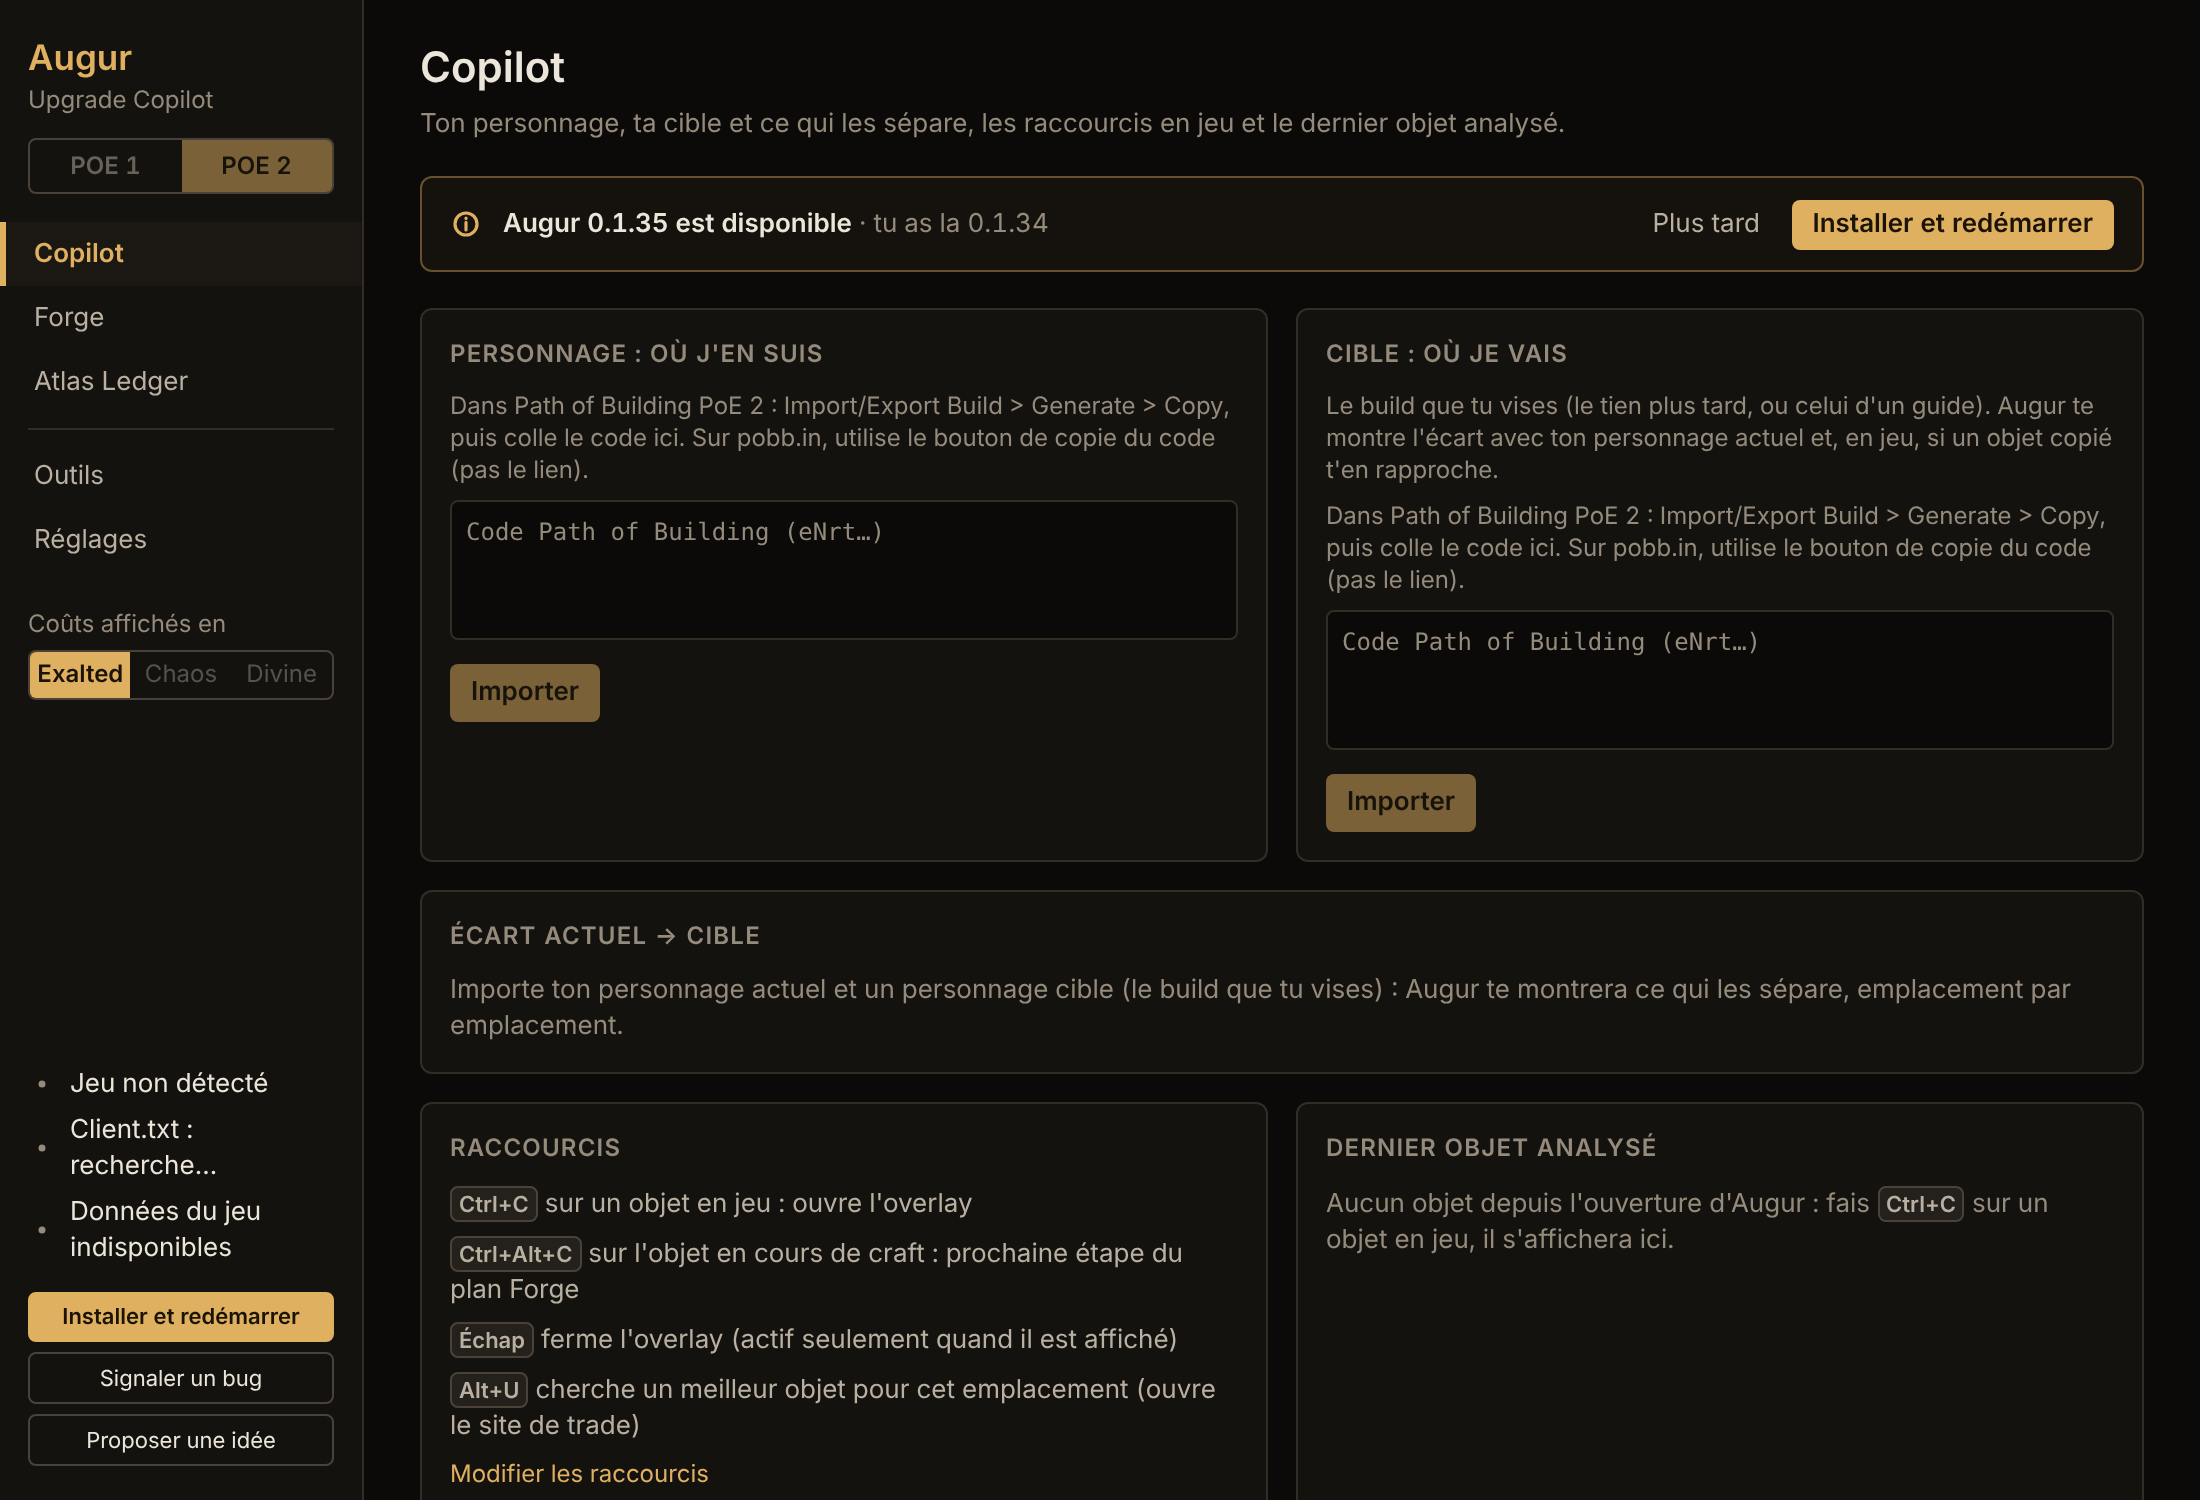
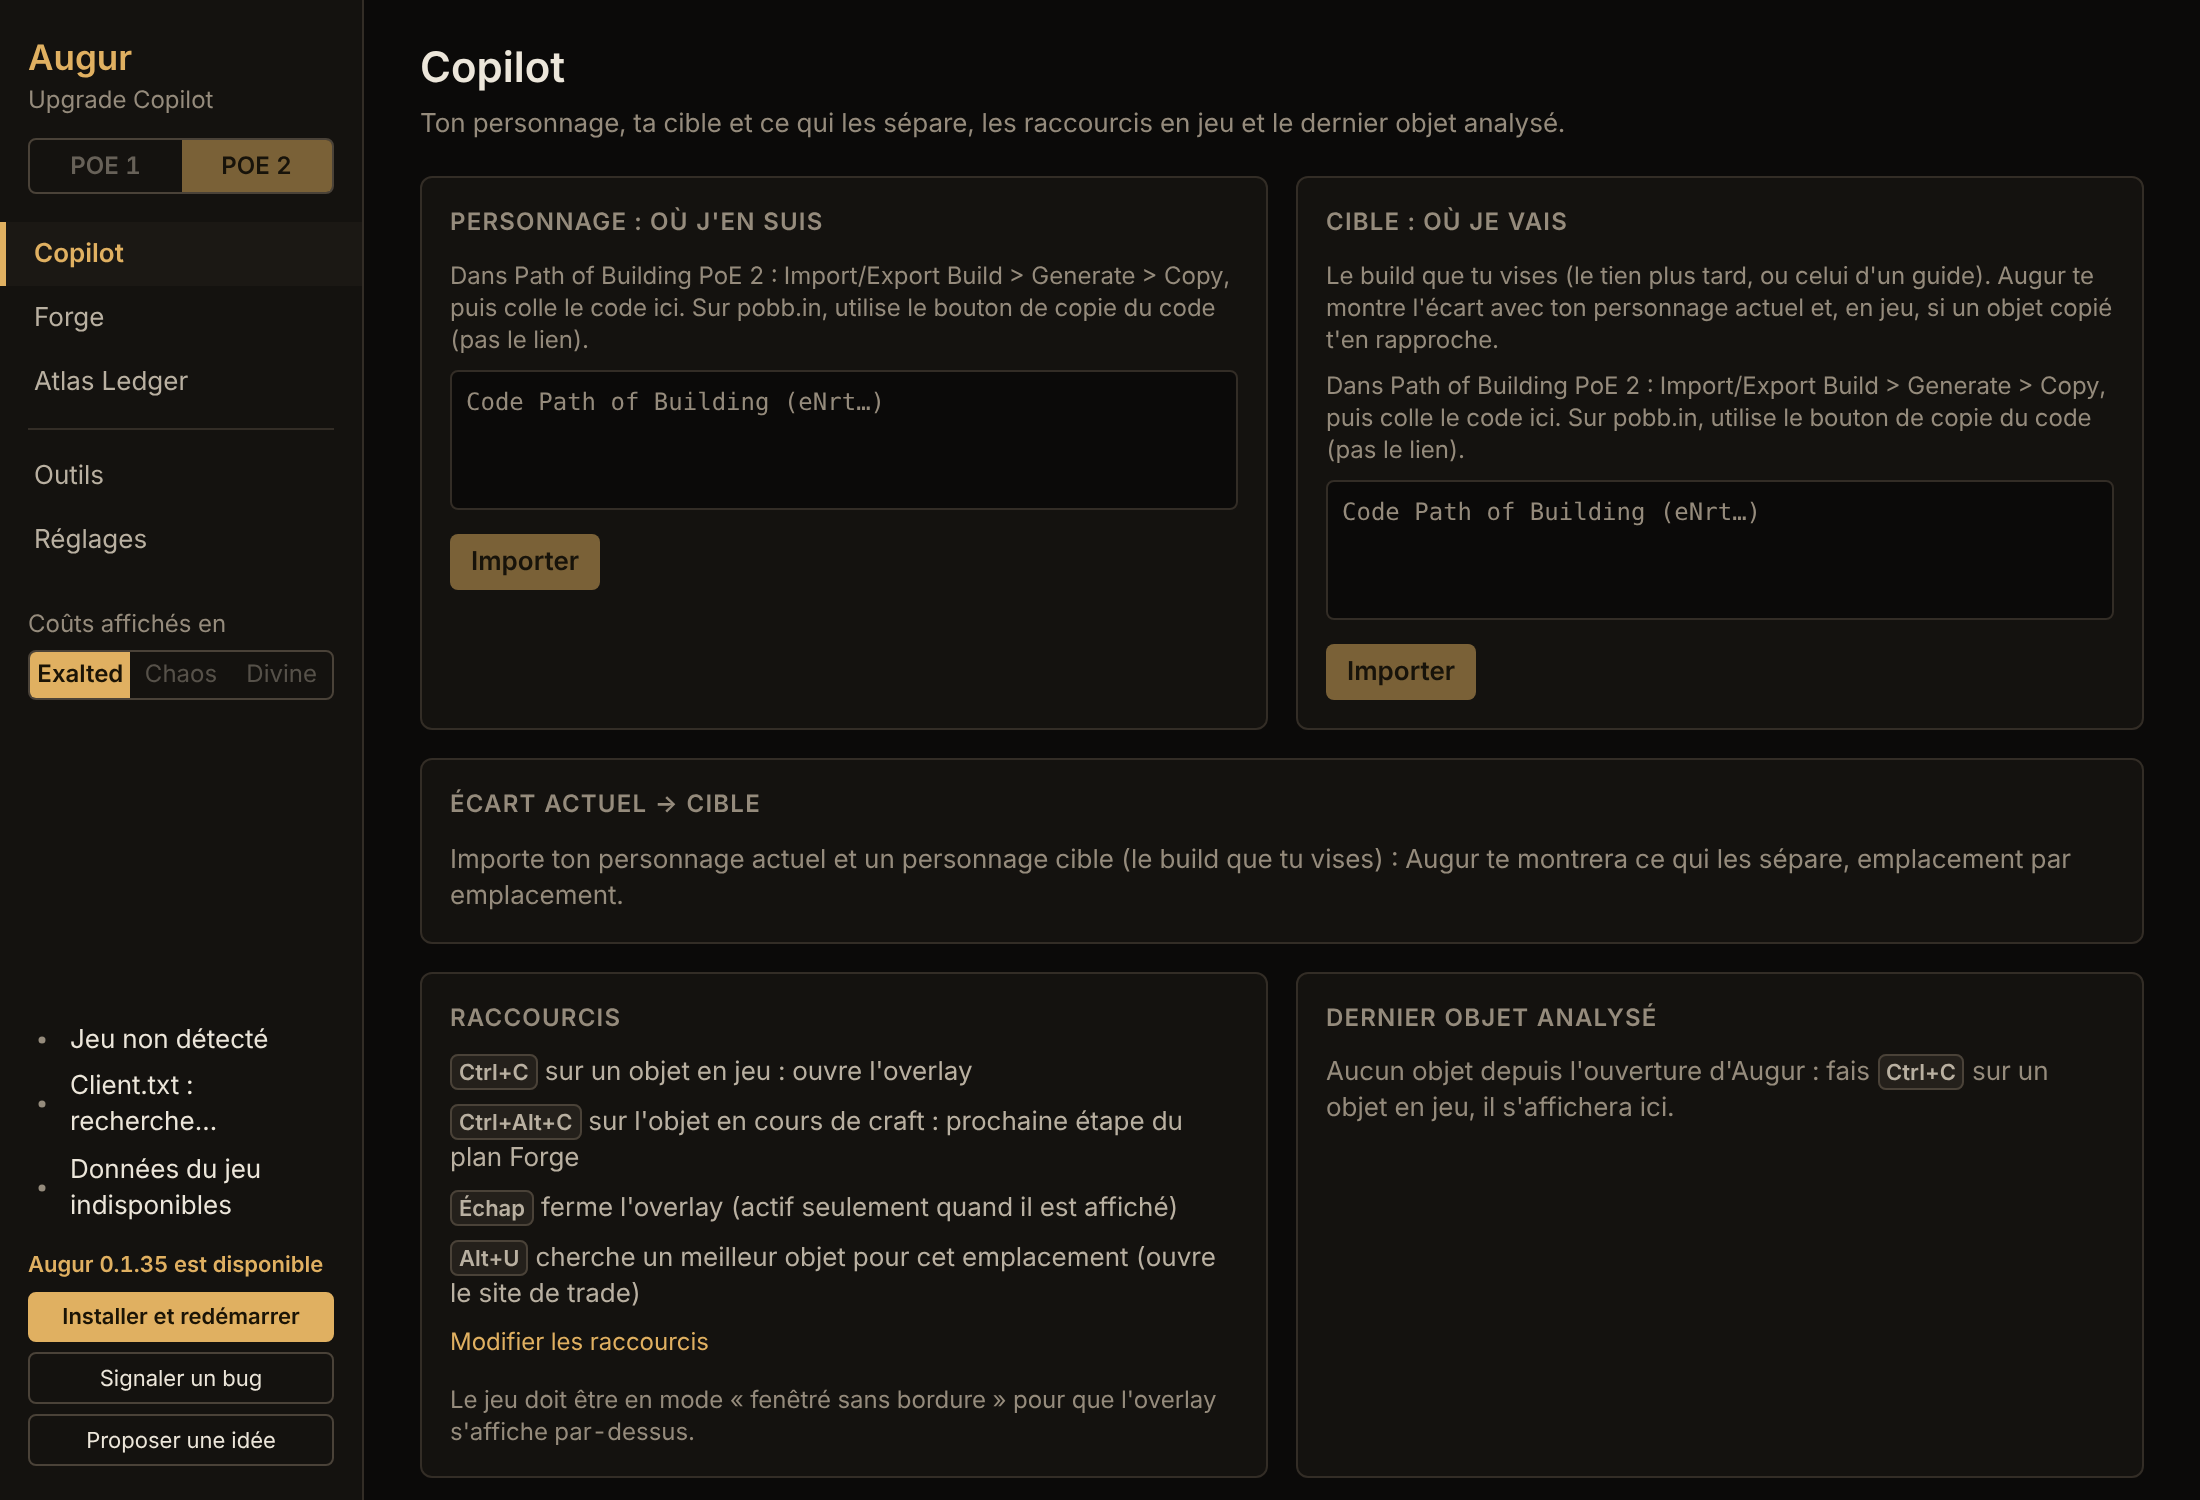
Mise à jour : bannière du haut retirée, « Augur X est disponible » en bas à gauche
Claude-Session: https://claude.ai/code/session_01C8Hq8xb3UNaZreS9wZEnLN

diff --git a/packages/ui/src/components/UpdateButton.tsx b/packages/ui/src/components/UpdateButton.tsx
@@ -1,5 +1,6 @@
 import type { UpdatePhase } from "../types";
 import { cx } from "../lib/cx";
+import { Icon } from "./Icon";
 
 export interface UpdateButtonProps {
   update: UpdatePhase;
@@ -55,4 +56,47 @@ export function UpdateButton({
       {label}
     </button>
   );
+}
+
+/**
+ * Ligne d'état au-dessus du bouton : version disponible, progression de
+ * l'installation ou erreur. Rien quand il n'y a rien à dire.
+ */
+export function UpdateStatus({ update, className }: { update: UpdatePhase; className?: string }) {
+  if (update.phase === "available") {
+    return (
+      <p role="status" className={cx("text-[11px] font-semibold text-accent", className)}>
+        Augur {update.info.version} est disponible
+      </p>
+    );
+  }
+  if (update.phase === "installing") {
+    const p = update.progress;
+    const pct = p?.total ? Math.min(100, Math.round((p.downloaded / p.total) * 100)) : undefined;
+    return (
+      <div role="status" className={cx("space-y-1", className)}>
+        <p className="text-[11px] text-text-primary">Installation d'Augur {update.info.version}…</p>
+        <div
+          className="h-1 overflow-hidden rounded-full bg-ink-700"
+          role="progressbar"
+          aria-valuemin={0}
+          aria-valuemax={100}
+          aria-valuenow={pct}
+        >
+          <div
+            className={cx("h-full bg-accent transition-[width]", pct === undefined && "w-1/3 motion-safe:animate-pulse")}
+            style={pct !== undefined ? { width: `${pct}%` } : undefined}
+          />
+        </div>
+      </div>
+    );
+  }
+  if (update.phase === "error") {
+    return (
+      <p role="status" className={cx("flex items-start gap-1 text-[11px] text-signal-warn", className)}>
+        <Icon name="alert" size={12} className="mt-0.5 shrink-0" /> {update.message}
+      </p>
+    );
+  }
+  return null;
 }

diff --git a/apps/desktop/src/index/main.tsx b/apps/desktop/src/index/main.tsx
@@ -5,8 +5,8 @@ import {
   ItemTooltip,
   Kbd,
   StatePanel,
-  UpdateBanner,
   UpdateButton,
+  UpdateStatus,
   type OverlayState,
   type ParsedItem,
 } from "@augur/ui";
@@ -301,12 +301,15 @@ function App() {
             <Status ok={Boolean(state?.gameFocused)} label={state?.gameFocused ? "Jeu au premier plan" : "Jeu non détecté"} />
             <Status ok={logSummary.ok} label={logSummary.label} />
             <Status ok={Boolean(versionDonnees)} label={versionDonnees ? `Données du jeu : ${versionDonnees}` : "Données du jeu indisponibles"} />
-            <UpdateButton
-              update={updates.update}
-              onCheck={() => void updates.check()}
-              onInstall={() => void updates.install()}
-              className="mt-2 w-full whitespace-nowrap px-1 py-1 text-[11px]"
-            />
+            <div className="space-y-1.5 pt-2">
+              <UpdateStatus update={updates.update} />
+              <UpdateButton
+                update={updates.update}
+                onCheck={() => void updates.check()}
+                onInstall={() => void updates.install()}
+                className="w-full whitespace-nowrap px-1 py-1 text-[11px]"
+              />
+            </div>
             <button
               type="button"
               onClick={() => allerA("signaler-bug")}
@@ -333,8 +336,6 @@ function App() {
                 : courante.desc}
             </p>
           </header>
-
-          <UpdateBanner update={updates.visible} onInstall={() => void updates.install()} onLater={updates.later} />
 
           {/* Les pages restent montées : changer de page ne perd ni un plan Forge ni une session Ledger. */}
 

diff --git a/packages/ui/src/components/UpdateButton.test.tsx b/packages/ui/src/components/UpdateButton.test.tsx
@@ -1,7 +1,7 @@
 import { cleanup, fireEvent, render, screen } from "@testing-library/react";
 import { afterEach, describe, expect, it, vi } from "vitest";
 import { updateInfo } from "../fixtures";
-import { UpdateButton } from "./UpdateButton";
+import { UpdateButton, UpdateStatus } from "./UpdateButton";
 
 afterEach(cleanup);
 
@@ -42,5 +42,27 @@ describe("UpdateButton", () => {
     rerender(<UpdateButton update={{ phase: "error", message: "hors ligne" }} onCheck={onCheck} idleLabel="Réessayer" />);
     fireEvent.click(screen.getByText("Réessayer"));
     expect(onCheck).toHaveBeenCalledTimes(2);
+  });
+});
+
+describe("UpdateStatus", () => {
+  it("annonce la version disponible, sans répéter la version installée", () => {
+    render(<UpdateStatus update={{ phase: "available", info: updateInfo }} />);
+    expect(screen.getByText(`Augur ${updateInfo.version} est disponible`)).toBeTruthy();
+    expect(screen.queryByText(/tu as la/)).toBeNull();
+  });
+
+  it("affiche la progression puis les erreurs", () => {
+    const { rerender } = render(
+      <UpdateStatus update={{ phase: "installing", info: updateInfo, progress: { downloaded: 5, total: 10 } }} />,
+    );
+    expect(screen.getByRole("progressbar").getAttribute("aria-valuenow")).toBe("50");
+    rerender(<UpdateStatus update={{ phase: "error", message: "hors ligne" }} />);
+    expect(screen.getByText("hors ligne")).toBeTruthy();
+  });
+
+  it("ne montre rien sans mise à jour", () => {
+    const { container } = render(<UpdateStatus update={{ phase: "upToDate", checkedAt: "2026-11-19T12:00:00Z" }} />);
+    expect(container.firstChild).toBeNull();
   });
 });

diff --git a/apps/desktop/src/index/useUpdates.ts b/apps/desktop/src/index/useUpdates.ts
@@ -9,7 +9,6 @@ import { commands, isAppError, isTauri, on } from "../bridge";
  */
 export function useUpdates() {
   const [update, setUpdate] = useState<UpdatePhase>({ phase: "idle" });
-  const [dismissed, setDismissed] = useState<string | null>(null);
 
   const check = useCallback(async () => {
     if (!isTauri()) return;
@@ -17,7 +16,6 @@ export function useUpdates() {
     try {
       const info = await commands.checkForUpdate();
       setUpdate(info ? { phase: "available", info } : { phase: "upToDate", checkedAt: new Date().toISOString() });
-      setDismissed(null);
     } catch (err) {
       setUpdate({ phase: "error", message: isAppError(err) ? err.message : String(err) });
     }
@@ -44,10 +42,5 @@ export function useUpdates() {
     return () => unlisten.forEach((p) => void p.then((f) => f()));
   }, [check]);
 
-  // « Plus tard » masque le bandeau jusqu'à la prochaine version annoncée.
-  const visible: UpdatePhase =
-    update.phase === "available" && dismissed === update.info.version ? { phase: "idle" } : update;
-  const later = () => update.phase === "available" && setDismissed(update.info.version);
-
-  return { update, visible, check, install, later };
+  return { update, check, install };
 }

diff --git a/packages/ui/src/index.ts b/packages/ui/src/index.ts
@@ -13,5 +13,5 @@ export * from "./lib/labels";
 export { StatePanel, Kbd } from "./components/StatePanel";
 export { CopilotOverlay, type CopilotOverlayProps } from "./components/CopilotOverlay";
 export { UpdateBanner, type UpdateBannerProps } from "./components/UpdateBanner";
-export { UpdateButton, type UpdateButtonProps } from "./components/UpdateButton";
+export { UpdateButton, UpdateStatus, type UpdateButtonProps } from "./components/UpdateButton";
 export * as fixtures from "./fixtures";
